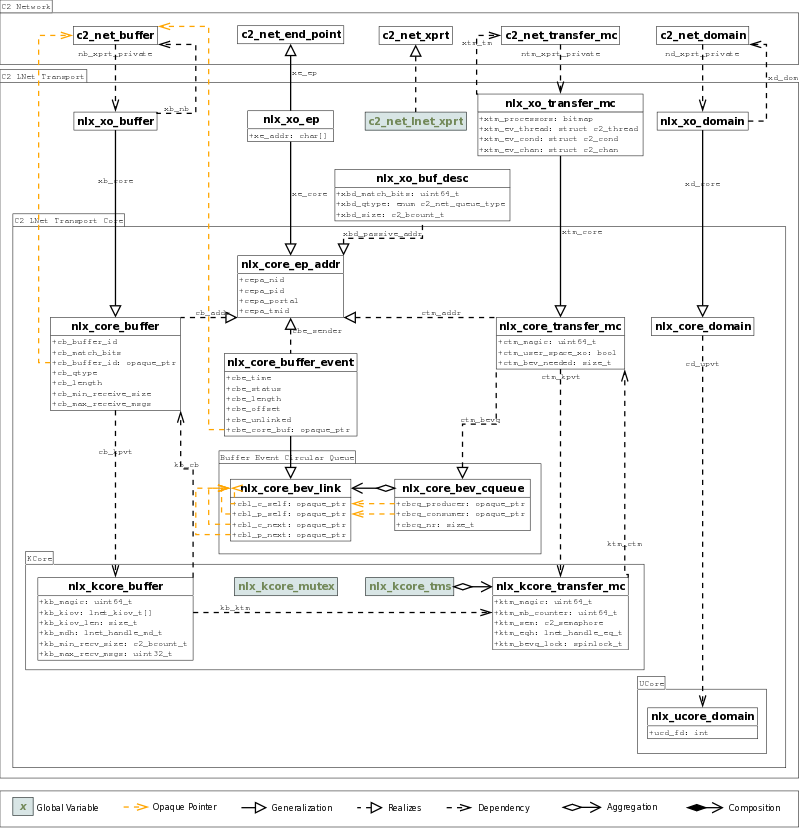
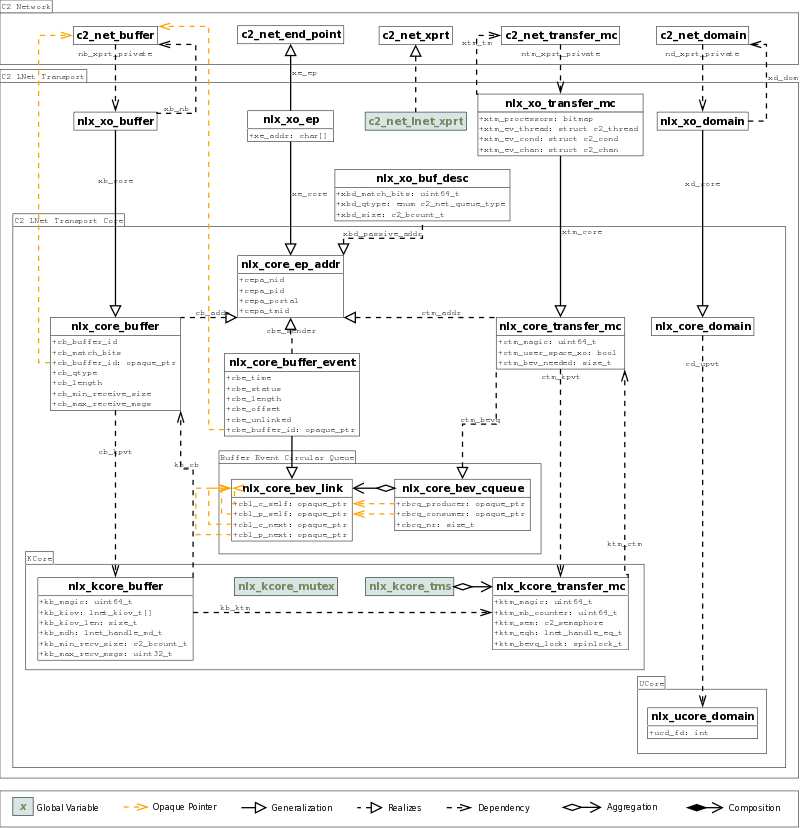
Applied inspection feedback. - Possible null pointer dereferencing when recovering kcore private pointers. - Consistent naming for buffer id field. - Needed count was not being adjusted on error paths. - Whitespace, style, and other minor fixes.

Changed region(s): [[0.2812, 0.5133, 0.4688, 0.6643], [0.2812, 0.3925, 0.4688, 0.5133]]

diff --git a/net/lnet/linux_kernel/klnet_core.c b/net/lnet/linux_kernel/klnet_core.c
@@ -761,6 +761,9 @@ C2_TL_DESCR_DEFINE(tms, "nlx tms", static, struct nlx_kcore_transfer_mc,
 		   C2_NET_LNET_KCORE_TMS_MAGIC);
 C2_TL_DEFINE(tms, static, struct nlx_kcore_transfer_mc);
 
+/* assert the equivalence of LNet and Colibri data types */
+C2_BASSERT(sizeof(__u64) == sizeof(uint64_t));
+
 /**
    KCore buffer invariant.
  */
@@ -875,6 +878,7 @@ static void nlx_kcore_eq_cb(lnet_event_t *event)
 
 	C2_PRE(event != NULL && event->type != LNET_EVENT_ACK);
 	cbp = event->md.user_ptr;
+	C2_ASSERT(nlx_core_buffer_invariant(cbp));
 	kbp = cbp->cb_kpvt;
 	C2_ASSERT(nlx_kcore_buffer_invariant(kbp));
 	ktm = kbp->kb_ktm;
@@ -890,7 +894,7 @@ static void nlx_kcore_eq_cb(lnet_event_t *event)
 	spin_lock(&ktm->ktm_bevq_lock);
 	ql = bev_cqueue_pnext(&lctm->ctm_bevq);
 	bev = container_of(ql, struct nlx_core_buffer_event, cbe_tm_link);
-	bev->cbe_core_buf = cbp->cb_buffer_id;
+	bev->cbe_buffer_id = cbp->cb_buffer_id;
 	bev->cbe_time = now;
 	if (event->type == LNET_EVENT_UNLINK) /* see nlx_core_buf_del */
 		bev->cbe_status = -ECANCELED;
@@ -901,7 +905,7 @@ static void nlx_kcore_eq_cb(lnet_event_t *event)
 	if (event->hdr_data != 0) {
 		bev->cbe_sender.cepa_nid = event->initiator.nid;
 		bev->cbe_sender.cepa_pid = event->initiator.pid;
-		nlx_kcore_hdr_data_decode((uint64_t)event->hdr_data,
+		nlx_kcore_hdr_data_decode(event->hdr_data,
 					  &bev->cbe_sender.cepa_portal,
 					  &bev->cbe_sender.cepa_tmid);
 	} else
@@ -979,8 +983,10 @@ int nlx_core_buf_register(struct nlx_core_domain *lcdom,
 void nlx_core_buf_deregister(struct nlx_core_domain *lcdom,
 			     struct nlx_core_buffer *lcbuf)
 {
-	struct nlx_kcore_buffer *kb = lcbuf->cb_kpvt;
+	struct nlx_kcore_buffer *kb;
 
+	C2_PRE(nlx_core_buffer_invariant(lcbuf));
+	kb = lcbuf->cb_kpvt;
 	C2_PRE(nlx_kcore_buffer_invariant(kb));
 	C2_PRE(LNetHandleIsInvalid(kb->kb_mdh));
 	kb->kb_magic = 0;
@@ -995,10 +1001,12 @@ void nlx_core_buf_deregister(struct nlx_core_domain *lcdom,
 int nlx_core_buf_msg_recv(struct nlx_core_transfer_mc *lctm,
 			  struct nlx_core_buffer *lcbuf)
 {
-	struct nlx_kcore_transfer_mc *kctm = lctm->ctm_kpvt;
+	struct nlx_kcore_transfer_mc *kctm;
 	lnet_md_t umd;
 	int rc;
 
+	C2_PRE(nlx_core_tm_invariant(lctm));
+	kctm = lctm->ctm_kpvt;
 	C2_PRE(nlx_kcore_tm_invariant(kctm));
 	C2_PRE(nlx_kcore_buffer_invariant(lcbuf->cb_kpvt));
 	C2_PRE(lcbuf->cb_qtype == C2_NET_QT_MSG_RECV);
@@ -1011,20 +1019,24 @@ int nlx_core_buf_msg_recv(struct nlx_core_transfer_mc *lctm,
 		return rc;
 
 	nlx_kcore_umd_init(lctm, lcbuf, lcbuf->cb_max_receive_msgs,
-			   lcbuf->cb_min_receive_size,  LNET_MD_OP_PUT, &umd);
+			   lcbuf->cb_min_receive_size, LNET_MD_OP_PUT, &umd);
 	lcbuf->cb_match_bits =
 		nlx_kcore_match_bits_encode(lctm->ctm_addr.cepa_tmid, 0);
 	rc = nlx_kcore_LNetMDAttach(lctm, lcbuf, &umd);
+	if (rc != 0)
+		nlx_core_bevq_release(lctm, lcbuf->cb_max_receive_msgs);
 	return rc;
 }
 
 int nlx_core_buf_msg_send(struct nlx_core_transfer_mc *lctm,
 			  struct nlx_core_buffer *lcbuf)
 {
-	struct nlx_kcore_transfer_mc *kctm = lctm->ctm_kpvt;
+	struct nlx_kcore_transfer_mc *kctm;
 	lnet_md_t umd;
 	int rc;
 
+	C2_PRE(nlx_core_tm_invariant(lctm));
+	kctm = lctm->ctm_kpvt;
 	C2_PRE(nlx_kcore_tm_invariant(kctm));
 	C2_PRE(nlx_kcore_buffer_invariant(lcbuf->cb_kpvt));
 	C2_PRE(lcbuf->cb_qtype == C2_NET_QT_MSG_SEND);
@@ -1038,6 +1050,8 @@ int nlx_core_buf_msg_send(struct nlx_core_transfer_mc *lctm,
 	lcbuf->cb_match_bits =
 		nlx_kcore_match_bits_encode(lcbuf->cb_addr.cepa_tmid, 0);
 	rc = nlx_kcore_LNetPut(lctm, lcbuf, &umd);
+	if (rc != 0)
+		nlx_core_bevq_release(lctm, 1);
 	return rc;
 }
 
@@ -1090,9 +1104,11 @@ int nlx_core_buf_del(struct nlx_core_transfer_mc *lctm,
 int nlx_core_buf_event_wait(struct nlx_core_transfer_mc *lctm,
 			    c2_time_t timeout)
 {
-	struct nlx_kcore_transfer_mc *kctm = lctm->ctm_kpvt;
+	struct nlx_kcore_transfer_mc *kctm;
 	bool any;
 
+	C2_PRE(nlx_core_tm_invariant(lctm));
+	kctm = lctm->ctm_kpvt;
 	C2_PRE(nlx_kcore_tm_invariant(kctm));
 
 	do {
@@ -1121,7 +1137,7 @@ bool nlx_core_buf_event_get(struct nlx_core_transfer_mc *lctm,
 				   cbe_tm_link);
 		*lcbe = *bev;
 		C2_SET0(&lcbe->cbe_tm_link); /* copy is not in queue */
-		lctm->ctm_bev_needed--;
+		nlx_core_bevq_release(lctm, 1);
 		return true;
 	}
 	return false;
@@ -1208,12 +1224,13 @@ int nlx_core_tm_start(struct c2_net_transfer_mc *tm,
 
 	C2_PRE(c2_mutex_is_locked(&tm->ntm_mutex));
 	C2_PRE(nlx_tm_invariant(tm));
+	C2_PRE(nlx_core_tm_invariant(lctm));
 	C2_PRE(cepa == &lctm->ctm_addr);
 	C2_PRE(epp != NULL);
 
 	C2_ALLOC_PTR(kctm);
-	(void)nlx_core_new_blessed_bev(lctm, &e1);
-	(void)nlx_core_new_blessed_bev(lctm, &e2);
+	nlx_core_new_blessed_bev(lctm, &e1);
+	nlx_core_new_blessed_bev(lctm, &e2);
 	if (kctm == NULL || e1 == NULL || e2 == NULL) {
 		rc = -ENOMEM;
 		goto fail;
@@ -1275,7 +1292,8 @@ int nlx_core_tm_start(struct c2_net_transfer_mc *tm,
 	c2_mutex_unlock(&nlx_kcore_mutex);
 
 	bev_cqueue_init(&lctm->ctm_bevq, &e1->cbe_tm_link, &e2->cbe_tm_link);
-	C2_ASSERT(bev_cqueue_size(&lctm->ctm_bevq) == 2);
+	C2_ASSERT(bev_cqueue_size(&lctm->ctm_bevq) ==
+		  C2_NET_LNET_BEVQ_MIN_SIZE);
 	C2_ASSERT(bev_cqueue_is_empty(&lctm->ctm_bevq));
 	lctm->ctm_upvt = NULL;
 	lctm->ctm_kpvt = kctm;
@@ -1306,9 +1324,11 @@ static void nlx_core_bev_free_cb(struct nlx_core_bev_link *ql)
 
 void nlx_core_tm_stop(struct nlx_core_transfer_mc *lctm)
 {
-	struct nlx_kcore_transfer_mc *kctm = lctm->ctm_kpvt;
+	struct nlx_kcore_transfer_mc *kctm;
 	int rc;
 
+	C2_PRE(nlx_core_tm_invariant(lctm));
+	kctm = lctm->ctm_kpvt;
 	C2_PRE(nlx_kcore_tm_invariant(kctm));
 
 	rc = LNetEQFree(kctm->ktm_eqh);

diff --git a/net/lnet/linux_kernel/klnet_utils.c b/net/lnet/linux_kernel/klnet_utils.c
@@ -1,6 +1,6 @@
 /* -*- C -*- */
 /*
- * COPYRIGHT 2011 XYRATEX TECHNOLOGY LIMITED
+ * COPYRIGHT 2012 XYRATEX TECHNOLOGY LIMITED
  *
  * THIS DRAWING/DOCUMENT, ITS SPECIFICATIONS, AND THE DATA CONTAINED
  * HEREIN, ARE THE EXCLUSIVE PROPERTY OF XYRATEX TECHNOLOGY
@@ -52,7 +52,7 @@ static inline void nlx_kcore_match_bits_decode(uint64_t mb,
 					       uint32_t *tmid,
 					       uint64_t *counter)
 {
-	*tmid = (uint32_t)(mb >> C2_NET_LNET_TMID_SHIFT);
+	*tmid = (uint32_t) (mb >> C2_NET_LNET_TMID_SHIFT);
 	*counter = mb & C2_NET_LNET_BUFFER_ID_MASK;
 	return;
 }
@@ -84,7 +84,7 @@ static inline void nlx_kcore_hdr_data_decode(uint64_t hdr_data,
 					     uint32_t *portal,
 					     uint32_t *tmid)
 {
-	*portal = (uint32_t)(hdr_data & C2_NET_LNET_PORTAL_MASK);
+	*portal = (uint32_t) (hdr_data & C2_NET_LNET_PORTAL_MASK);
 	*tmid = hdr_data >> C2_NET_LNET_TMID_SHIFT;
 	return;
 }
@@ -108,10 +108,14 @@ static void nlx_kcore_umd_init(struct nlx_core_transfer_mc *lctm,
 			       unsigned options,
 			       lnet_md_t *umd)
 {
-	struct nlx_kcore_transfer_mc *kctm = lctm->ctm_kpvt;
-	struct nlx_kcore_buffer *kcb = lcbuf->cb_kpvt;
+	struct nlx_kcore_transfer_mc *kctm;
+	struct nlx_kcore_buffer *kcb;
 
+	C2_PRE(nlx_core_tm_invariant(lctm));
+	kctm = lctm->ctm_kpvt;
 	C2_PRE(nlx_kcore_tm_invariant(kctm));
+	C2_PRE(nlx_core_buffer_invariant(lcbuf));
+	kcb = lcbuf->cb_kpvt;
 	C2_PRE(nlx_kcore_buffer_invariant(kcb));
 	C2_PRE(threshold > 0);
 	C2_PRE(lcbuf->cb_length > 0);
@@ -152,13 +156,17 @@ static int nlx_kcore_LNetMDAttach(struct nlx_core_transfer_mc *lctm,
 				  struct nlx_core_buffer *lcbuf,
 				  lnet_md_t *umd)
 {
-	struct nlx_kcore_transfer_mc *kctm = lctm->ctm_kpvt;
-	struct nlx_kcore_buffer *kcb = lcbuf->cb_kpvt;
+	struct nlx_kcore_transfer_mc *kctm;
+	struct nlx_kcore_buffer *kcb;
 	lnet_handle_me_t meh;
 	lnet_process_id_t id;
 	int rc;
 
+	C2_PRE(nlx_core_tm_invariant(lctm));
+	kctm = lctm->ctm_kpvt;
 	C2_PRE(nlx_kcore_tm_invariant(kctm));
+	C2_PRE(nlx_core_buffer_invariant(lcbuf));
+	kcb = lcbuf->cb_kpvt;
 	C2_PRE(nlx_kcore_buffer_invariant(kcb));
 	C2_PRE(lcbuf->cb_match_bits != 0);
 
@@ -192,11 +200,15 @@ static int nlx_kcore_LNetMDAttach(struct nlx_core_transfer_mc *lctm,
 static int nlx_kcore_LNetMDUnlink(struct nlx_core_transfer_mc *lctm,
 				   struct nlx_core_buffer *lcbuf)
 {
-	struct nlx_kcore_transfer_mc *kctm = lctm->ctm_kpvt;
-	struct nlx_kcore_buffer *kcb = lcbuf->cb_kpvt;
+	struct nlx_kcore_transfer_mc *kctm;
+	struct nlx_kcore_buffer *kcb;
 	int rc;
 
+	C2_PRE(nlx_core_tm_invariant(lctm));
+	kctm = lctm->ctm_kpvt;
 	C2_PRE(nlx_kcore_tm_invariant(kctm));
+	C2_PRE(nlx_core_buffer_invariant(lcbuf));
+	kcb = lcbuf->cb_kpvt;
 	C2_PRE(nlx_kcore_buffer_invariant(kcb));
 	C2_PRE(kcb->kb_ktm == kctm);
 	rc = LNetMDUnlink(kcb->kb_mdh);
@@ -222,12 +234,16 @@ static int nlx_kcore_LNetPut(struct nlx_core_transfer_mc *lctm,
 			     struct nlx_core_buffer *lcbuf,
 			     lnet_md_t *umd)
 {
-	struct nlx_kcore_transfer_mc *kctm = lctm->ctm_kpvt;
-	struct nlx_kcore_buffer *kcb = lcbuf->cb_kpvt;
+	struct nlx_kcore_transfer_mc *kctm;
+	struct nlx_kcore_buffer *kcb;
 	lnet_process_id_t target;
 	int rc;
 
+	C2_PRE(nlx_core_tm_invariant(lctm));
+	kctm = lctm->ctm_kpvt;
 	C2_PRE(nlx_kcore_tm_invariant(kctm));
+	C2_PRE(nlx_core_buffer_invariant(lcbuf));
+	kcb = lcbuf->cb_kpvt;
 	C2_PRE(nlx_kcore_buffer_invariant(kcb));
 	C2_PRE(lcbuf->cb_match_bits != 0);
 
@@ -239,8 +255,8 @@ static int nlx_kcore_LNetPut(struct nlx_core_transfer_mc *lctm,
 	target.pid = lcbuf->cb_addr.cepa_pid;
 	rc = LNetPut(LNET_NID_ANY, kcb->kb_mdh, LNET_NOACK_REQ,
 		     target, lcbuf->cb_addr.cepa_portal,
-		     (__u64)lcbuf->cb_match_bits, 0,
-		     (__u64)nlx_kcore_hdr_data_encode(lctm));
+		     lcbuf->cb_match_bits, 0,
+		     nlx_kcore_hdr_data_encode(lctm));
 	if (rc == 0)
 		kcb->kb_ktm = kctm;
 

diff --git a/net/lnet/lnet_core.h b/net/lnet/lnet_core.h
@@ -270,8 +270,11 @@ struct nlx_core_bev_cqueue {
 enum {
 	/** Minimum number of buffer event entries in the queue. */
 	C2_NET_LNET_BEVQ_MIN_SIZE  = 2,
-	/** Number of unused guard buffer event entries in the queue. */
-	C2_NET_LNET_BEVQ_NUM_GUARD = 1,
+	/** Number of unusable buffer event entries in the queue.
+	    The entry pointed to by the consumer is owned by the consumer and
+	    thus cannot be used by the producer.
+	 */
+	C2_NET_LNET_BEVQ_NUM_UNUSABLE = 1,
 };
 
 /**
@@ -290,7 +293,7 @@ struct nlx_core_buffer_event {
 	    to navigate back to its outer buffer private data and from there
 	    back to the c2_net_buffer.
 	 */
-	nlx_core_opaque_ptr_t        cbe_core_buf;
+	nlx_core_opaque_ptr_t        cbe_buffer_id;
 
 	/** Event timestamp */
 	c2_time_t                    cbe_time;
@@ -724,10 +727,24 @@ static inline bool nlx_core_ep_eq(const struct nlx_core_ep_addr *cep1,
 
    @param lctm Pointer to LNet core TM data structure.
    @param need Number of additional buffer entries required.
-   @see nlx_core_new_blessed_bev()
+   @see nlx_core_new_blessed_bev(), nlx_core_bevq_release()
  */
 static int nlx_core_bevq_provision(struct nlx_core_transfer_mc *lctm,
 				   size_t need);
+
+/**
+   Subroutine to reduce the needed capacity of the buffer event queue.
+   Note: Entries are never actually released from the circular queue.
+
+   The subroutine is to be used in the consumer address space only.
+   The invoker must lock the transfer machine prior to this call.
+
+   @param lctm Pointer to LNet core TM data structure.
+   @param release Number of buffer entries released.
+   @see nlx_core_bevq_provision()
+ */
+static void nlx_core_bevq_release(struct nlx_core_transfer_mc *lctm,
+				  size_t release);
 
 /**
    Subroutine to allocate a new buffer event structure initialized

diff --git a/net/lnet/lnet_core.c b/net/lnet/lnet_core.c
@@ -64,7 +64,7 @@ int nlx_core_bevq_provision(struct nlx_core_transfer_mc *lctm, size_t need)
 	C2_PRE(nlx_core_tm_is_locked(lctm));
 	C2_PRE(need > 0);
 
-	have = bev_cqueue_size(&lctm->ctm_bevq) - C2_NET_LNET_BEVQ_NUM_GUARD;
+	have = bev_cqueue_size(&lctm->ctm_bevq) - C2_NET_LNET_BEVQ_NUM_UNUSABLE;
 	C2_ASSERT(have >= lctm->ctm_bev_needed);
 	num_to_alloc = lctm->ctm_bev_needed + need - have;
 	while (num_to_alloc > 0) {
@@ -78,9 +78,19 @@ int nlx_core_bevq_provision(struct nlx_core_transfer_mc *lctm, size_t need)
 	}
 	if (rc == 0)
 		lctm->ctm_bev_needed += need;
-	have = bev_cqueue_size(&lctm->ctm_bevq) - C2_NET_LNET_BEVQ_NUM_GUARD;
+	have = bev_cqueue_size(&lctm->ctm_bevq) - C2_NET_LNET_BEVQ_NUM_UNUSABLE;
 	C2_POST(have >= lctm->ctm_bev_needed);
 	return rc;
+}
+
+void nlx_core_bevq_release(struct nlx_core_transfer_mc *lctm, size_t release)
+{
+	C2_PRE(nlx_core_tm_is_locked(lctm));
+	C2_PRE(release > 0);
+	C2_PRE(lctm->ctm_bev_needed >= release);
+
+	lctm->ctm_bev_needed -= release;
+	return;
 }
 
 /**

diff --git a/net/lnet/lnet_tm.c b/net/lnet/lnet_tm.c
@@ -159,7 +159,7 @@ int nlx_xo_core_bev_to_net_bev(struct c2_net_transfer_mc *tm,
 	/* Recover the transport space network buffer address from the
 	   opaque data set during registration.
 	 */
-	nb = (struct c2_net_buffer *)lcbev->cbe_core_buf;
+	nb = (struct c2_net_buffer *) lcbev->cbe_buffer_id;
 	C2_ASSERT(c2_net__buffer_invariant(nb));
 
 	C2_SET0(nbev);
@@ -189,6 +189,7 @@ int nlx_xo_core_bev_to_net_bev(struct c2_net_transfer_mc *tm,
 	/* currently we only support RETAIN for received messages */
 	C2_POST(ergo(nb->nb_flags & C2_NET_BUF_RETAIN,
 		     nb->nb_qtype == C2_NET_QT_MSG_RECV));
+	C2_POST(rc == 0 || rc == -ENOMEM);
 	return rc;
 }
 

diff --git a/net/lnet/ulnet_core.c b/net/lnet/ulnet_core.c
@@ -74,7 +74,8 @@ int nlx_core_buf_msg_recv(struct nlx_core_transfer_mc *lctm,
 	bev_cqueue_put(&lctm->ctm_bevq);
 
 	/* XXX temp: just to compile in user space */
-	(void)nlx_core_bevq_provision(lctm, lcbuf->cb_max_receive_msgs);
+	nlx_core_bevq_provision(lctm, lcbuf->cb_max_receive_msgs);
+	nlx_core_bevq_release(lctm, lcbuf->cb_max_receive_msgs);
 
 	return -ENOSYS;
 }

diff --git a/net/lnet/lnet_main.c b/net/lnet/lnet_main.c
@@ -760,7 +760,7 @@
 #endif
 
 #include "lib/errno.h"
-#include "lib/misc.h" /* C2_SET0 */
+#include "lib/misc.h"
 #include "lib/memory.h"
 #include "net/net_internal.h"
 #include "net/lnet/lnet_core.h"
